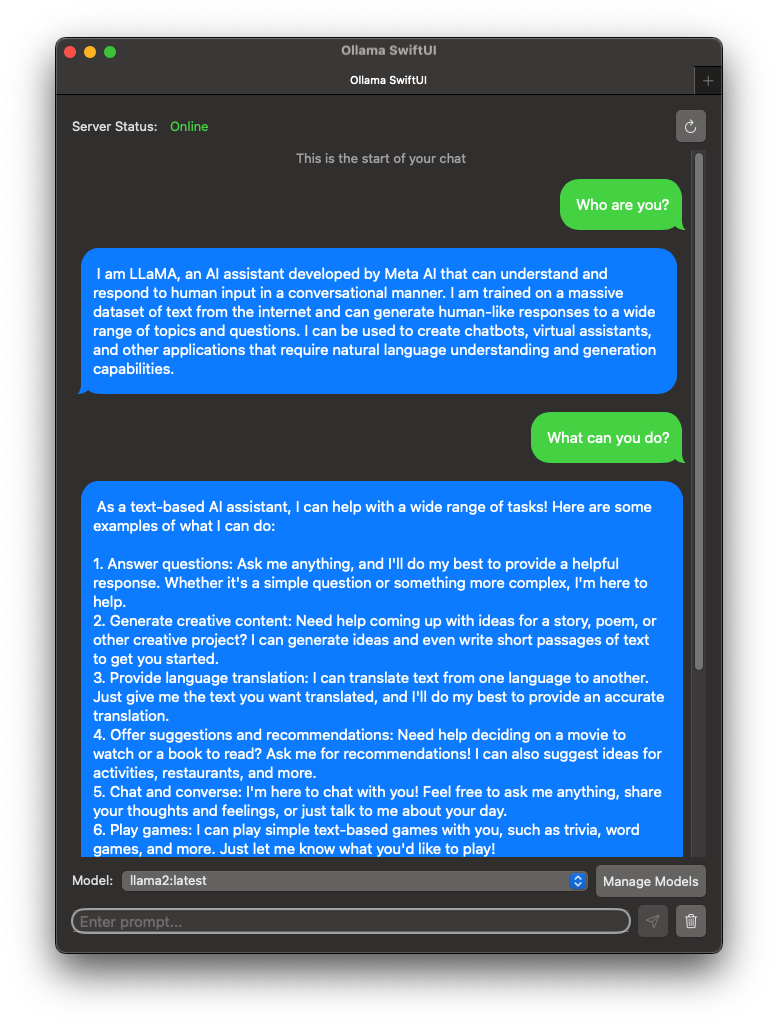
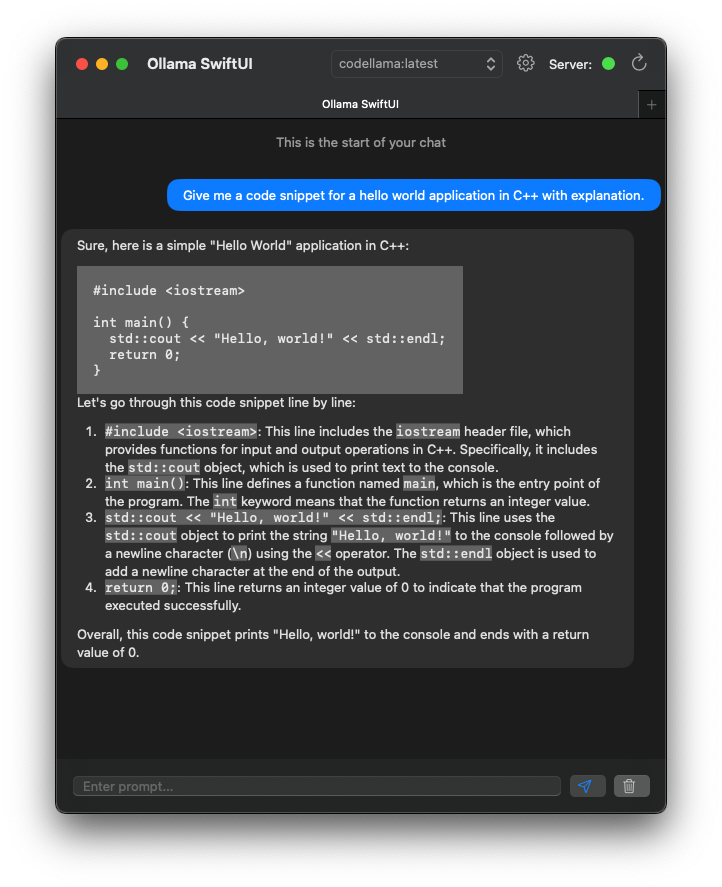
Version 1.1

diff --git a/README.md b/README.md
@@ -10,11 +10,13 @@ A user-friendly interface for [Ollama AI](https://ollama.ai) created in Swift. T
 
 ## Table of Content
 1. [Introduction](#introduction)
-2. [Features](#features)
-3. [Getting Started](#getting-started)
-4. [Frequently Asked Questions](#frequently-asked-questions)
-5. [Dark Mode showcase](#dark-mode-also-available)
-6. [Feedback and Contributions](#feedback-and-contributions)
+2. [Changelog](CHANGELOG.md)
+3. [Features](#features)
+4. [Getting Started](#getting-started)
+5. [Frequently Asked Questions](#frequently-asked-questions)
+6. [Dark Mode showcase](#dark-mode-also-available)
+7. [Feedback and Contributions](#feedback-and-contributions)
+8. [Contribution Hall of Fame](#contributors-hall-of-fame)
 
 ## Introduction
 A user-friendly interface for [Ollama AI](https://ollama.ai) created in Swift. This application is not directly affiliated with Ollama.ai. It allows you to chat seamlessly with Large Language models downloaded to your mac. 
@@ -79,3 +81,6 @@ A user-friendly interface for [Ollama AI](https://ollama.ai) created in Swift. T
 ## Feedback and Contributions:
 For bugs and feedback, please create a new issue or email bugs@kghandour.com 
 Feel free to contribute by creating a Pull request and the best effort will be done to review and merge.
+
+## Contributors Hall of Fame:
+@HiRoS-neko

diff --git a/CHANGELOG.md b/CHANGELOG.md
@@ -1,0 +1,24 @@
+# Changelog
+## Version 1.1 (2023-12-30)
+Happy New Year! 
+New version of Ollama Swift is here. Major contribution by @HiRoS-neko
+### New
+1. Now using "Chat" option from Ollama.ai. Now the chat understands previous messages when answering the questions.
+
+### Improved
+1. Changed chat bubbles to rounded rectangles
+2. Changed colors to fit iMessage experience more
+3. Now the status and the model selection is in the toolbar at the top of the window
+4. Changed server status to green circle or red triangle
+5. Changed markdown to highlight code blocks for better visuals.
+
+## Version 1.0 Initial Release
+1. Chatting with local Large Language Models.
+2. Ability to change model mid conversation.
+3. Restart Conversation at anytime.
+4. New Tabs for different conversations.
+5. Ability to download models using the GUI (Check https://ollama.ai/library for list of model names to download)
+6. Ability to delete models
+7. Ability to duplicate models
+8. Light and Dark Mode
+9. Localizable interface. Currently Localized in: English and Arabic
